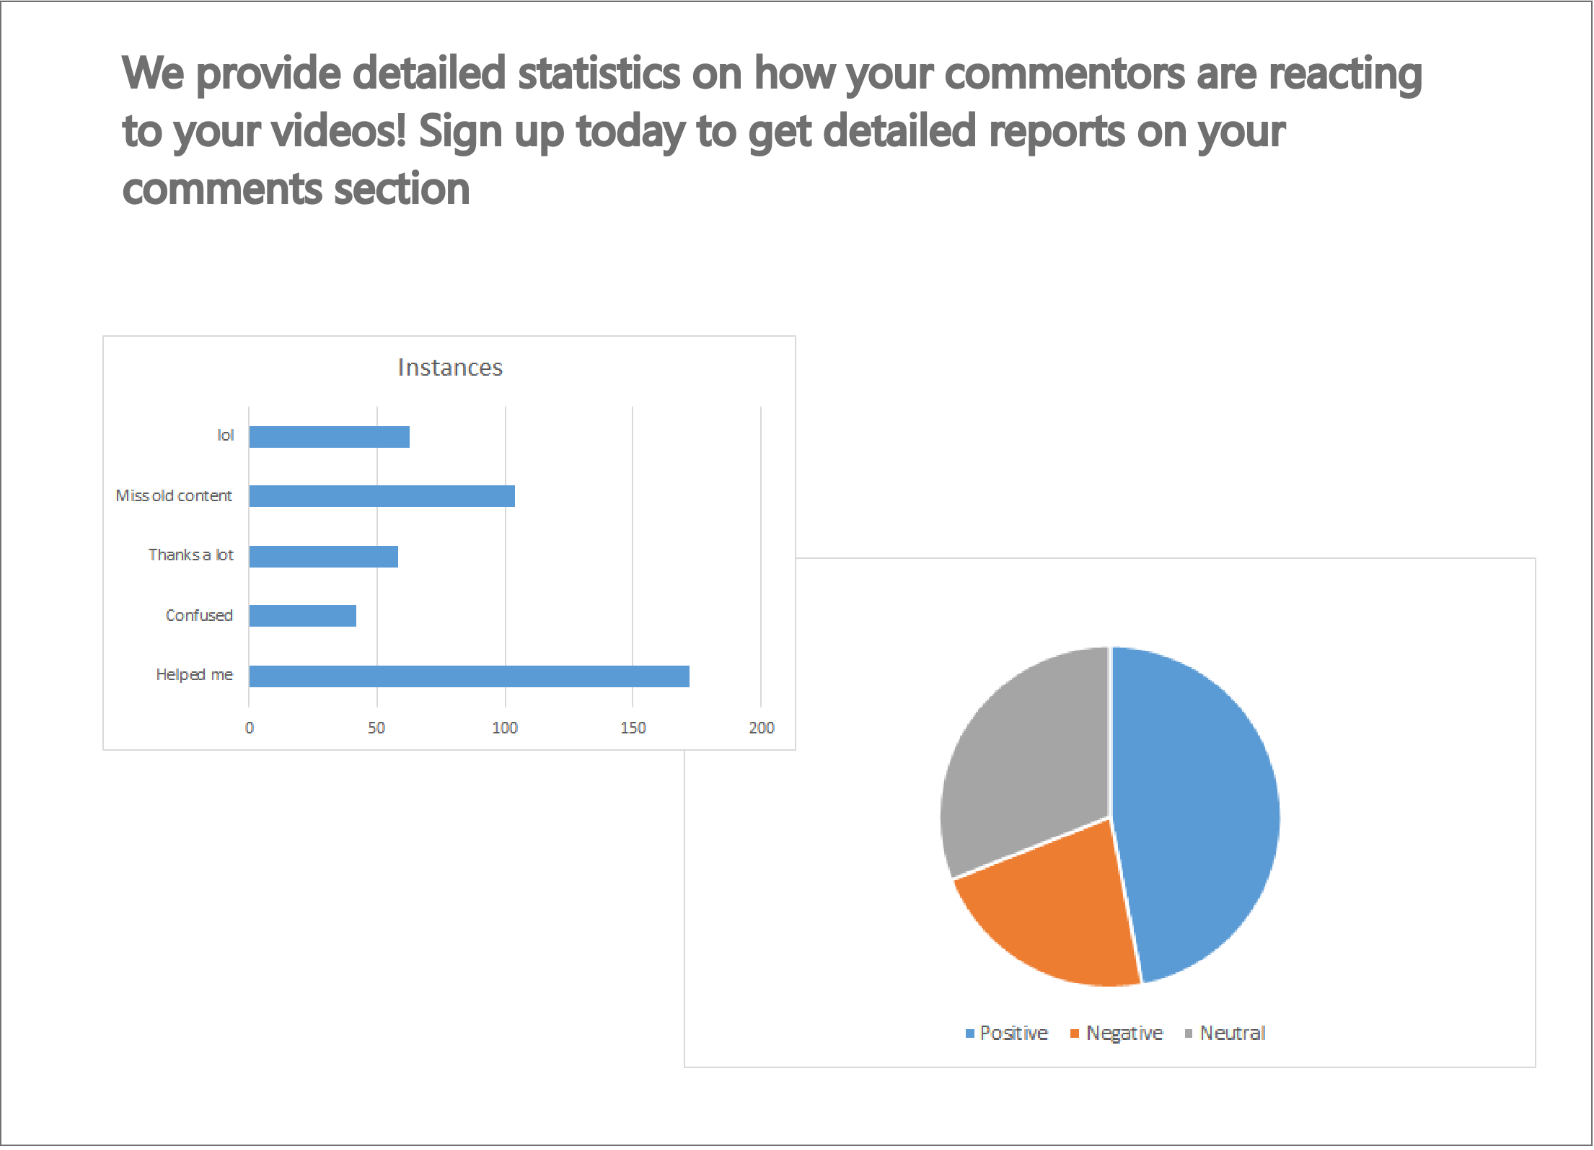
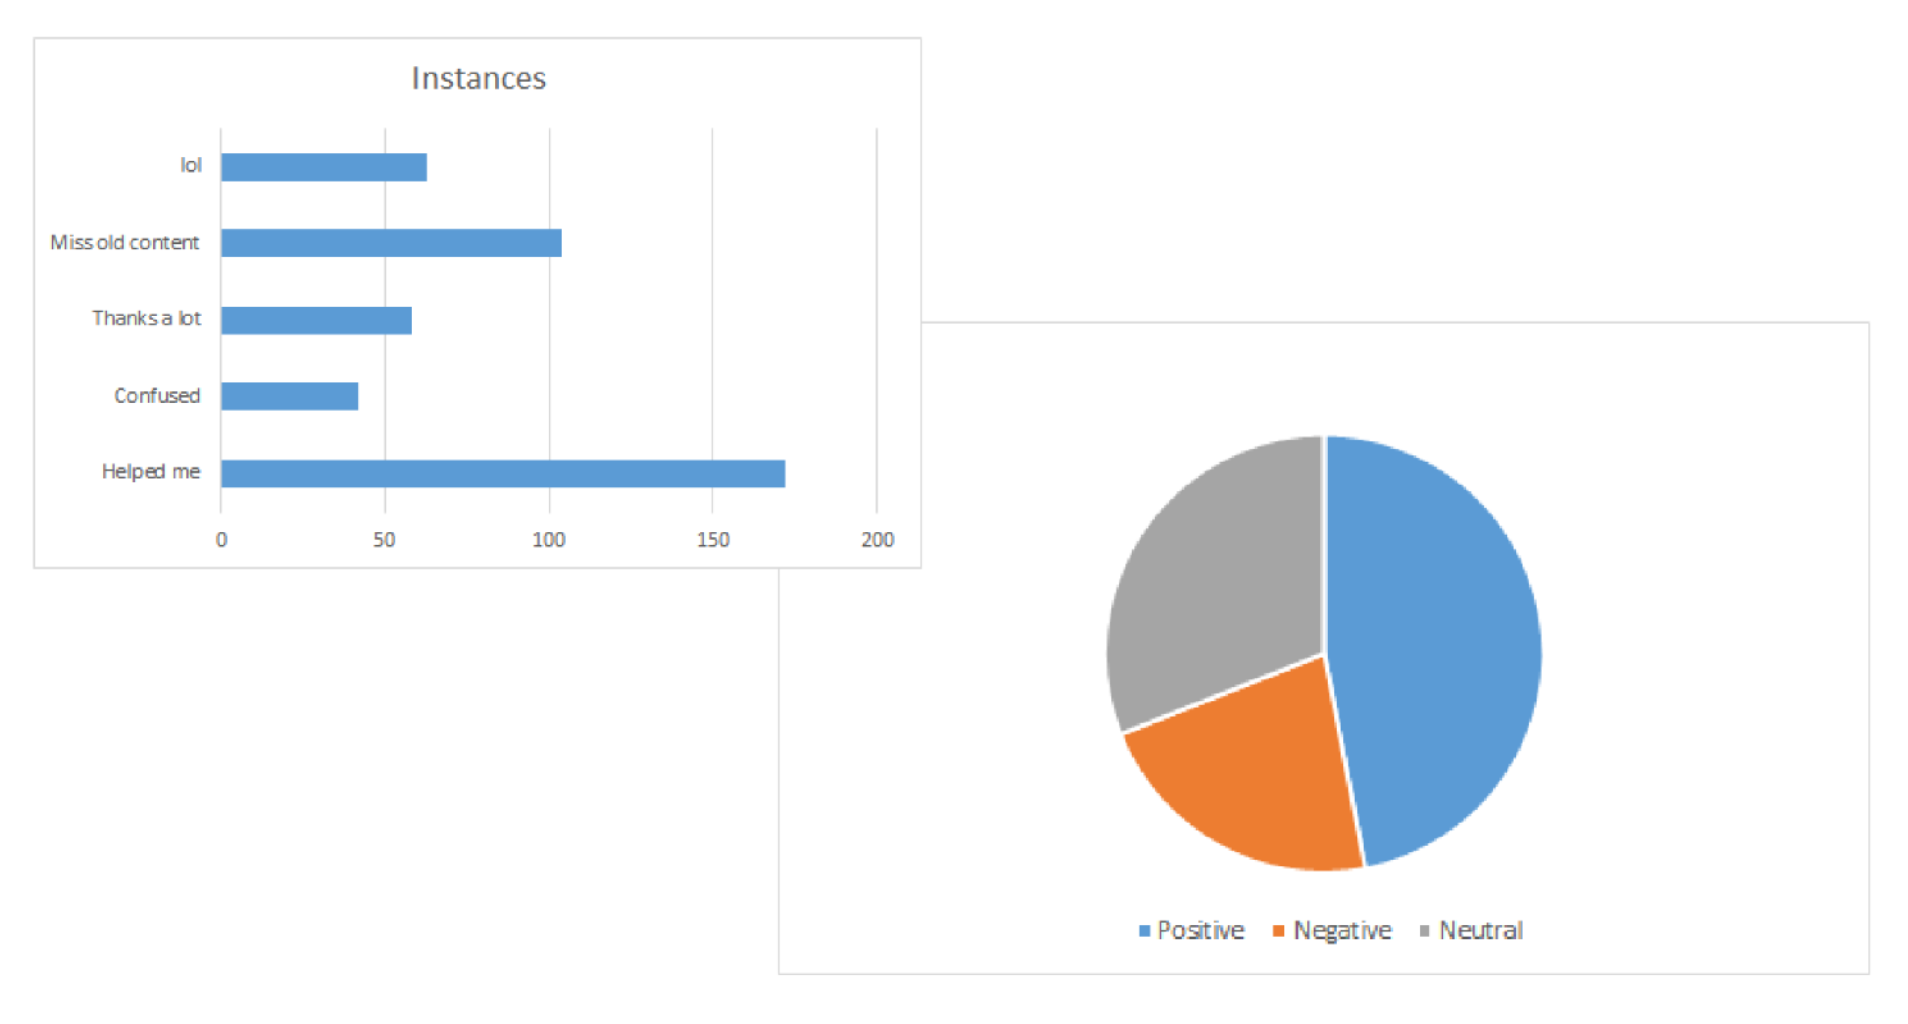
Use card to display home.png

diff --git a/home.html b/home.html
@@ -27,7 +27,15 @@
         </div>
         <div class="row">
             <div class="col s8">
-                <img height="400" width="600" src="images/home.png">
+                <div class="card">
+                    <div class="card-image">
+                        <img src="images/home.png">
+                        <span class="card-title">Card Title</span>
+                    </div>
+                    <div class="card-content">
+                        <p>We provide detailed statistics on how your commenters are reacting to your videos! Sign up today to get detailed reports on your comments.</p>
+                    </div>
+                </div>
             </div>
             <div class="col s4">
                 <div class="row">
